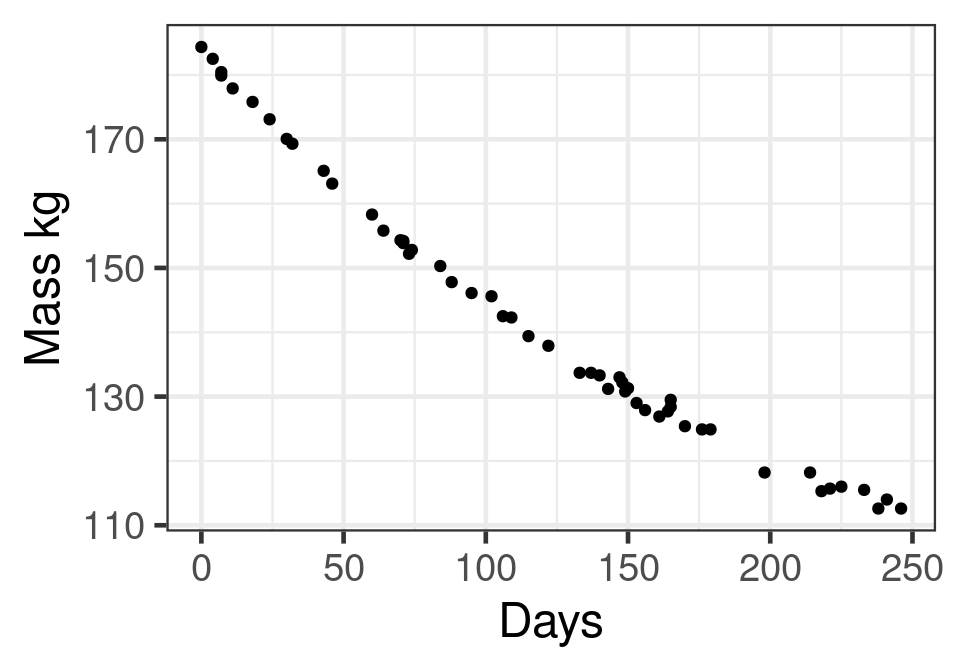
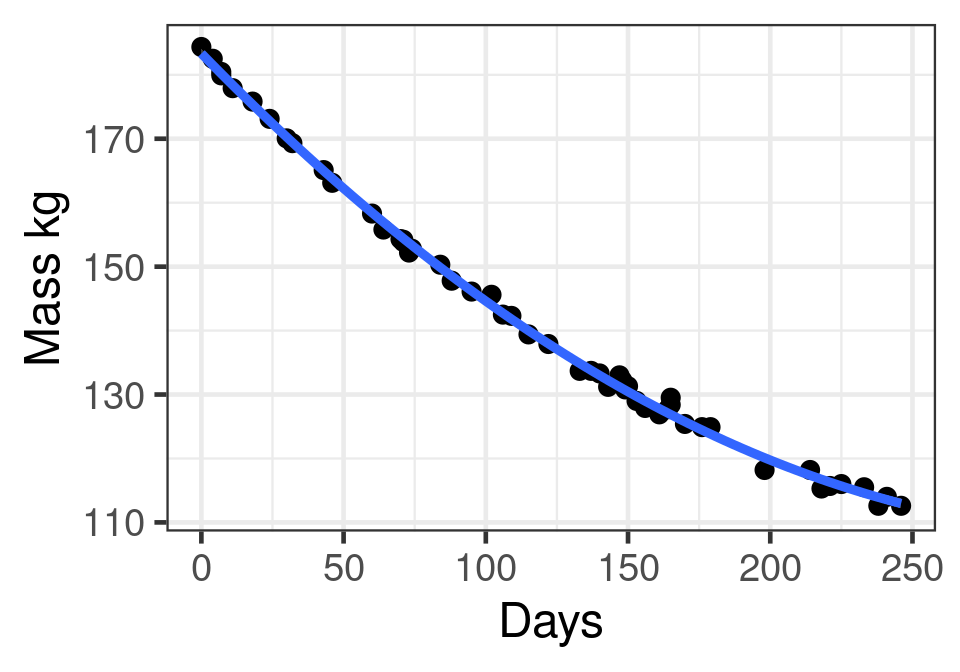
l12

diff --git a/docs/lecture_12_non-linear.html b/docs/lecture_12_non-linear.html
@@ -11,7 +11,7 @@
   <meta name="generator" content="quarto-1.8.20">
 
   <meta name="author" content="Richard J. Telford (Richard.Telford@uib.no)">
-  <meta name="dcterms.date" content="2025-08-17">
+  <meta name="dcterms.date" content="2025-11-02">
   <title>Bio302 - Biostatistikk – Non-linear analyses and summary</title>
   <meta name="apple-mobile-web-app-capable" content="yes">
   <meta name="apple-mobile-web-app-status-bar-style" content="black-translucent">
@@ -211,7 +211,7 @@ Richard J. Telford (Richard.Telford@uib.no)
     </div>
 </div>
 
-  <p class="date">17 August 2025</p>
+  <p class="date">2 November 2025</p>
 </section>
 <section id="assumptions-of-least-squares" class="slide level2">
 <h2>Assumptions of Least Squares</h2>
@@ -229,17 +229,18 @@ Richard J. Telford (Richard.Telford@uib.no)
 <h2>Non-linear least squares</h2>
 <div class="columns">
 <div class="column" style="width:50%;">
-<p>We know something about the relationship</p>
+<p>We know something about<br>
+the relationship</p>
 <div class="cell">
 <div class="cell-output-display">
 <div>
 <figure>
-<p><img data-src="lecture_12_non-linear_files/figure-revealjs/unnamed-chunk-1-1.png" width="480"></p>
+<p><img data-src="lecture_12_non-linear_files/figure-revealjs/wtloss-1.png" width="480"></p>
 </figure>
 </div>
 </div>
 </div>
-<p>Upper or lower bound (asymptote)</p>
+<p>Mass of a dieting patient - has lower bound - asymptote.</p>
 </div><div class="column" style="width:50%;">
 <p>Three options</p>
 <ul>
@@ -257,12 +258,10 @@ Richard J. Telford (Richard.Telford@uib.no)
 <li>check diagnostics</li>
 </ul>
 
-<img data-src="lecture_12_non-linear_files/figure-revealjs/fig-log-1.png" id="fig-log" width="960" class="r-stretch quarto-figure-center"><p class="caption">
-Figure&nbsp;1
-</p></section>
+<img data-src="lecture_12_non-linear_files/figure-revealjs/ffig-log-1.png" width="960" class="r-stretch"></section>
 <section id="polynomial" class="slide level2">
 <h2>Polynomial</h2>
-<p><span class="math display">\[y_i=\beta_0 + \beta_1x_i+\beta_2x^2 + \epsilon_i\]</span></p>
+<p><span class="math display">\[y_i=\beta_0 + \beta_1x_i+\beta_2x^2 + \varepsilon_i\]</span></p>
 <div class="columns">
 <div class="column" style="width:50%;">
 <ul>
@@ -275,7 +274,7 @@ Figure&nbsp;1
 <div class="cell-output-display">
 <div>
 <figure>
-<p><img data-src="lecture_12_non-linear_files/figure-revealjs/unnamed-chunk-2-1.png" width="480"></p>
+<p><img data-src="lecture_12_non-linear_files/figure-revealjs/unnamed-chunk-1-1.png" width="480"></p>
 </figure>
 </div>
 </div>
@@ -287,12 +286,12 @@ Figure&nbsp;1
 <p>The relationship has an asymptote, and a exponential decline</p>
 <div class="columns">
 <div class="column" style="width:50%;">
-<p><span class="math inline">\(y_i = \beta_0 + \beta_1\exp(\beta_2x_i) + \epsilon_i\)</span> <br> If <span class="math inline">\(\beta_2 &lt; 0\)</span></p>
-<p>x -&gt; inf</p>
+<p><span class="math inline">\(y_i = \beta_0 + \beta_1\exp(\beta_2x_i) + \varepsilon_i\)</span> <br> If <span class="math inline">\(\beta_2 &lt; 0\)</span></p>
+<p>limit <span class="math inline">\(x\to\infty\)</span></p>
 <ul>
 <li><span class="math inline">\(\beta_1\exp(\beta_2x_i) = 0\)</span></li>
 </ul>
-<p>x -&gt; 0</p>
+<p>limit <span class="math inline">\(x\to0\)</span></p>
 <ul>
 <li><span class="math inline">\(\beta_1\exp(\beta_2x_i) = β_1\)</span></li>
 </ul>
@@ -301,7 +300,7 @@ Figure&nbsp;1
 <div class="cell-output-display">
 <div>
 <figure>
-<p><img data-src="lecture_12_non-linear_files/figure-revealjs/unnamed-chunk-3-1.png" width="480"></p>
+<p><img data-src="lecture_12_non-linear_files/figure-revealjs/unnamed-chunk-2-1.png" width="480"></p>
 </figure>
 </div>
 </div>
@@ -317,13 +316,35 @@ Figure&nbsp;1
 <h2>Fitting an NLS</h2>
 <div class="cell">
 <div class="code-copy-outer-scaffold"><div class="sourceCode cell-code" id="cb1"><pre class="sourceCode numberSource r number-lines code-with-copy"><code class="sourceCode r"><span id="cb1-1"><a></a><span class="fu">library</span>(nlme)</span>
-<span id="cb1-2"><a></a><span class="co"># tibble(days = 1:200, weight = 100 + 70 * exp(-.1 * days)) |&gt; </span></span>
-<span id="cb1-3"><a></a><span class="co"># ggplot(aes(x = days, y = weight)) + geom_line()</span></span>
-<span id="cb1-4"><a></a></span>
-<span id="cb1-5"><a></a>fit.nls <span class="ot">&lt;-</span> <span class="fu">nls</span>(Weight <span class="sc">~</span> b0 <span class="sc">+</span> b1 <span class="sc">*</span> <span class="fu">exp</span>(b2 <span class="sc">*</span> Days), </span>
-<span id="cb1-6"><a></a>               <span class="at">data =</span> wtloss, </span>
-<span id="cb1-7"><a></a>               <span class="at">start =</span> <span class="fu">c</span>(<span class="at">b0 =</span> <span class="dv">100</span>, <span class="at">b1 =</span> <span class="dv">70</span>, <span class="at">b2 =</span> <span class="sc">-</span><span class="fl">0.1</span>))</span>
-<span id="cb1-8"><a></a><span class="fu">summary</span>(fit.nls)</span></code></pre></div><button title="Copy to Clipboard" class="code-copy-button"><i class="bi"></i></button></div>
+<span id="cb1-2"><a></a></span>
+<span id="cb1-3"><a></a>fit.nls <span class="ot">&lt;-</span> <span class="fu">nls</span>(Weight <span class="sc">~</span> b0 <span class="sc">+</span> b1 <span class="sc">*</span> <span class="fu">exp</span>(b2 <span class="sc">*</span> Days), <span class="at">data =</span> wtloss)</span></code></pre></div><button title="Copy to Clipboard" class="code-copy-button"><i class="bi"></i></button></div>
+<div class="cell-output cell-output-error">
+<pre><code>Error in getInitial.default(func, data, mCall = as.list(match.call(func, : no 'getInitial' method found for "function" objects</code></pre>
+</div>
+</div>
+<p>Needs stating values - initial estimates of the coefficients</p>
+</section>
+<section id="estimating-starting-values" class="slide level2">
+<h2>Estimating starting values</h2>
+<div class="columns">
+<div class="column" style="width:50%;">
+<p><span class="math inline">\(y_i = \beta_0 + \beta_1\exp(\beta_2x_i) + \varepsilon_i\)</span></p>
+<ul>
+<li><span class="math inline">\(\beta_0\)</span> = asymptote</li>
+<li><span class="math inline">\(\beta_0 + \beta_1\)</span> = intercept</li>
+<li><span class="math inline">\(\beta_2\)</span> = slope (proportional change)</li>
+</ul>
+</div><div class="column" style="width:50%;">
+<p><img data-src="lecture_12_non-linear_files/figure-revealjs/wtloss-1.png"></p>
+</div></div>
+</section>
+<section id="with-starting-values" class="slide level2">
+<h2>With starting values</h2>
+<div class="cell">
+<div class="code-copy-outer-scaffold"><div class="sourceCode cell-code" id="cb3"><pre class="sourceCode numberSource r number-lines code-with-copy"><code class="sourceCode r"><span id="cb3-1"><a></a>fit.nls <span class="ot">&lt;-</span> <span class="fu">nls</span>(Weight <span class="sc">~</span> b0 <span class="sc">+</span> b1 <span class="sc">*</span> <span class="fu">exp</span>(b2 <span class="sc">*</span> Days), </span>
+<span id="cb3-2"><a></a>               <span class="at">data =</span> wtloss, </span>
+<span id="cb3-3"><a></a>               <span class="at">start =</span> <span class="fu">c</span>(<span class="at">b0 =</span> <span class="dv">100</span>, <span class="at">b1 =</span> <span class="dv">70</span>, <span class="at">b2 =</span> <span class="sc">-</span><span class="fl">0.1</span>))</span>
+<span id="cb3-4"><a></a><span class="fu">summary</span>(fit.nls)</span></code></pre></div><button title="Copy to Clipboard" class="code-copy-button"><i class="bi"></i></button></div>
 <div class="cell-output cell-output-stdout">
 <pre><code>
 Formula: Weight ~ b0 + b1 * exp(b2 * Days)
@@ -346,46 +367,31 @@ Achieved convergence tolerance: 1.763e-07</code></pre>
 <section id="model-diagnostics" class="slide level2">
 <h2>Model diagnostics</h2>
 <div class="cell">
-<div class="code-copy-outer-scaffold"><div class="sourceCode cell-code" id="cb3"><pre class="sourceCode numberSource r number-lines code-with-copy"><code class="sourceCode r"><span id="cb3-1"><a></a><span class="fu">plot</span>(fit.nls)</span></code></pre></div><button title="Copy to Clipboard" class="code-copy-button"><i class="bi"></i></button></div>
+<div class="code-copy-outer-scaffold"><div class="sourceCode cell-code" id="cb5"><pre class="sourceCode numberSource r number-lines code-with-copy"><code class="sourceCode r"><span id="cb5-1"><a></a><span class="fu">plot</span>(fit.nls)</span></code></pre></div><button title="Copy to Clipboard" class="code-copy-button"><i class="bi"></i></button></div>
 
 </div>
-<img data-src="lecture_12_non-linear_files/figure-revealjs/fig-diagnostics-1.png" id="fig-diagnostics" width="960" class="r-stretch quarto-figure-center"><p class="caption">
-Figure&nbsp;2
-</p></section>
+<img data-src="lecture_12_non-linear_files/figure-revealjs/ffig-diagnostics-1.png" width="960" class="r-stretch"></section>
 <section id="plotting-the-model" class="slide level2">
 <h2>Plotting the model</h2>
 <div class="cell">
-<div class="code-copy-outer-scaffold"><div class="sourceCode cell-code" id="cb4"><pre class="sourceCode numberSource r number-lines code-with-copy"><code class="sourceCode r"><span id="cb4-1"><a></a>p <span class="sc">+</span>  <span class="fu">geom_line</span>(<span class="at">data =</span> broom<span class="sc">::</span><span class="fu">augment</span>(fit.nls), <span class="fu">aes</span>(<span class="at">y =</span> .fitted))</span></code></pre></div><button title="Copy to Clipboard" class="code-copy-button"><i class="bi"></i></button></div>
+<div class="code-copy-outer-scaffold"><div class="sourceCode cell-code" id="cb6"><pre class="sourceCode numberSource r number-lines code-with-copy"><code class="sourceCode r"><span id="cb6-1"><a></a>p <span class="sc">+</span>  <span class="fu">geom_line</span>(<span class="at">data =</span> broom<span class="sc">::</span><span class="fu">augment</span>(fit.nls), <span class="fu">aes</span>(<span class="at">y =</span> .fitted))</span></code></pre></div><button title="Copy to Clipboard" class="code-copy-button"><i class="bi"></i></button></div>
 
 </div>
-<img data-src="lecture_12_non-linear_files/figure-revealjs/fig-preds-1.png" id="fig-preds" width="960" class="r-stretch quarto-figure-center"><p class="caption">
-Figure&nbsp;3
-</p></section>
+<img data-src="lecture_12_non-linear_files/figure-revealjs/ffig-preds-1.png" width="960" class="r-stretch"></section>
 <section id="uncertainty-on-model-predictions" class="slide level2">
 <h2>Uncertainty on model predictions</h2>
-<p>Not calculated by the model</p>
-<p>Bootstrap - resample data and refit model many times</p>
+<p>Not calculated by the model - use bootstrap</p>
 <div class="cell">
-<div class="code-copy-outer-scaffold"><div class="sourceCode cell-code" id="cb5"><pre class="sourceCode numberSource r number-lines code-with-copy"><code class="sourceCode r"><span id="cb5-1"><a></a><span class="fu">library</span>(nlstools)</span></code></pre></div><button title="Copy to Clipboard" class="code-copy-button"><i class="bi"></i></button></div>
-<div class="cell-output cell-output-error">
-<pre><code>Error in library(nlstools): there is no package called 'nlstools'</code></pre>
+<div class="code-copy-outer-scaffold"><div class="sourceCode cell-code" id="cb7"><pre class="sourceCode numberSource r number-lines code-with-copy"><code class="sourceCode r"><span id="cb7-1"><a></a><span class="fu">library</span>(nlstools)</span>
+<span id="cb7-2"><a></a>fit.boot <span class="ot">&lt;-</span> <span class="fu">nlsBoot</span>(fit.nls)</span>
+<span id="cb7-3"><a></a>pred <span class="ot">&lt;-</span> <span class="fu">nlsBootPredict</span>(fit.boot, <span class="at">interval =</span> <span class="st">"prediction"</span>) <span class="sc">|&gt;</span> </span>
+<span id="cb7-4"><a></a>  <span class="fu">bind_cols</span>(wtloss)</span>
+<span id="cb7-5"><a></a></span>
+<span id="cb7-6"><a></a>p <span class="sc">+</span> <span class="fu">geom_ribbon</span>(<span class="fu">aes</span>(<span class="at">ymin =</span> <span class="st">`</span><span class="at">2.5%</span><span class="st">`</span>, <span class="at">ymax =</span> <span class="st">`</span><span class="at">97.5%</span><span class="st">`</span>), <span class="at">data =</span> pred, <span class="at">alpha =</span> <span class="fl">0.3</span>, <span class="at">fill =</span> <span class="st">"red"</span>) <span class="sc">+</span></span>
+<span id="cb7-7"><a></a>  <span class="fu">geom_line</span>(<span class="fu">aes</span>(<span class="at">y =</span> Median), <span class="at">data =</span> pred)</span></code></pre></div><button title="Copy to Clipboard" class="code-copy-button"><i class="bi"></i></button></div>
+
 </div>
-<div class="code-copy-outer-scaffold"><div class="sourceCode cell-code" id="cb7"><pre class="sourceCode numberSource r number-lines code-with-copy"><code class="sourceCode r"><span id="cb7-1"><a></a>fit.boot <span class="ot">&lt;-</span> <span class="fu">nlsBoot</span>(fit.nls)</span></code></pre></div><button title="Copy to Clipboard" class="code-copy-button"><i class="bi"></i></button></div>
-<div class="cell-output cell-output-error">
-<pre><code>Error in nlsBoot(fit.nls): could not find function "nlsBoot"</code></pre>
-</div>
-<div class="code-copy-outer-scaffold"><div class="sourceCode cell-code" id="cb9"><pre class="sourceCode numberSource r number-lines code-with-copy"><code class="sourceCode r"><span id="cb9-1"><a></a>pred <span class="ot">&lt;-</span> <span class="fu">nlsBootPredict</span>(fit.boot, <span class="at">interval =</span> <span class="st">"prediction"</span>) <span class="sc">|&gt;</span> </span>
-<span id="cb9-2"><a></a>  <span class="fu">bind_cols</span>(wtloss)</span></code></pre></div><button title="Copy to Clipboard" class="code-copy-button"><i class="bi"></i></button></div>
-<div class="cell-output cell-output-error">
-<pre><code>Error in nlsBootPredict(fit.boot, interval = "prediction"): could not find function "nlsBootPredict"</code></pre>
-</div>
-<div class="code-copy-outer-scaffold"><div class="sourceCode cell-code" id="cb11"><pre class="sourceCode numberSource r number-lines code-with-copy"><code class="sourceCode r"><span id="cb11-1"><a></a>p <span class="sc">+</span> <span class="fu">geom_ribbon</span>(<span class="fu">aes</span>(<span class="at">ymin =</span> <span class="st">`</span><span class="at">2.5%</span><span class="st">`</span>, <span class="at">ymax =</span> <span class="st">`</span><span class="at">97.5%</span><span class="st">`</span>), <span class="at">data =</span> pred, <span class="at">alpha =</span> <span class="fl">0.3</span>, <span class="at">fill =</span> <span class="st">"red"</span>) <span class="sc">+</span></span>
-<span id="cb11-2"><a></a>  <span class="fu">geom_line</span>(<span class="fu">aes</span>(<span class="at">y =</span> Median), <span class="at">data =</span> pred)</span></code></pre></div><button title="Copy to Clipboard" class="code-copy-button"><i class="bi"></i></button></div>
-<div class="cell-output cell-output-error">
-<pre><code>Error: object 'pred' not found</code></pre>
-</div>
-</div>
-</section>
+<img data-src="lecture_12_non-linear_files/figure-revealjs/ffig-uncert-1.png" width="960" class="r-stretch"></section>
 <section id="working-with-nls" class="slide level2">
 <h2>Working with NLS</h2>
 <ol type="1">
@@ -400,9 +406,9 @@ Figure&nbsp;3
 <ul>
 <li>Exponential decay</li>
 <li>Logistic growth</li>
-<li>Von Bertalanffy Growth Models</li>
+<li>Von Bertalanffy and Gompertz growth models</li>
 <li>Michaelis–Menten kinetics</li>
-<li>Sine waves</li>
+<li>Sine/cosine waves</li>
 </ul>
 
 <img data-src="lecture_12_non-linear_files/figure-revealjs/models-1.png" width="960" class="r-stretch"></section>
@@ -440,13 +446,13 @@ Figure&nbsp;3
 <h2>Prevalence</h2>
 <div class="cell">
 <div class="cell-output-display">
-<div id="fig-qrp" class="quarto-float quarto-figure quarto-figure-center" width="1110" height="6.5in">
+<div id="fig-qrp" class="quarto-float quarto-figure quarto-figure-center" height="6.5in" width="1110">
 <figure class="quarto-float quarto-float-fig">
 <div aria-describedby="fig-qrp-caption-0ceaefa1-69ba-4598-a22c-09a6ac19f8ca">
 <img data-src="figures/QRPpone.0200303.g001.png" id="fig-qrp" style="height:6.5in" width="1110">
 </div>
 <figcaption class="quarto-float-caption-bottom quarto-float-caption quarto-float-fig quarto-uncaptioned" id="fig-qrp-caption-0ceaefa1-69ba-4598-a22c-09a6ac19f8ca">
-Figure&nbsp;4
+Figure&nbsp;1
 </figcaption>
 </figure>
 </div>
@@ -494,14 +500,6 @@ Figure&nbsp;4
 <p>(also other types of model - survival, multivariate etc)</p>
 <p>Answers usually usually known before data collection.</p>
 </section>
-<section id="clustered-data" class="slide level2">
-<h2>Clustered data</h2>
-<p>Mixed effect models</p>
-<ul>
-<li>Normal distribution: linear mixed effect models</li>
-<li>Binomial/poisson: generalised linear mixed effect models</li>
-</ul>
-</section>
 <section id="independent-data-normal-distribution" class="slide level2">
 <h2>Independent data, normal distribution</h2>
 <p>Linear models - ordinary least squares</p>
@@ -527,17 +525,25 @@ Figure&nbsp;4
 <li>nls</li>
 </ul>
 </section>
+<section id="clustered-data" class="slide level2">
+<h2>Clustered data</h2>
+<p>Mixed effect models</p>
+<ul>
+<li>Normal distribution: linear mixed effect models</li>
+<li>Binomial/poisson: generalised linear mixed effect models</li>
+</ul>
+</section>
 <section id="all-model-are-wrong-some-are-useful" class="slide level2">
 <h2>All model are wrong; some are useful</h2>
 <div class="cell">
 <div class="cell-output-display">
-<div id="fig-many-ecologists" class="quarto-float quarto-figure quarto-figure-center" width="672" height="6.5in">
+<div id="fig-many-ecologists" class="quarto-float quarto-figure quarto-figure-center" height="6.5in" width="672">
 <figure class="quarto-float quarto-float-fig">
 <div aria-describedby="fig-many-ecologists-caption-0ceaefa1-69ba-4598-a22c-09a6ac19f8ca">
 <img data-src="figures/fig-forest-plots-Zr-1.png" id="fig-many-ecologists" style="height:6.5in" width="672">
 </div>
 <figcaption class="quarto-float-caption-bottom quarto-float-caption quarto-float-fig quarto-uncaptioned" id="fig-many-ecologists-caption-0ceaefa1-69ba-4598-a22c-09a6ac19f8ca">
-Figure&nbsp;5
+Figure&nbsp;2
 </figcaption>
 </figure>
 </div>
@@ -550,9 +556,9 @@ Figure&nbsp;5
 <section id="interpreting-model-output" class="slide level2">
 <h2>Interpreting model output</h2>
 <div class="cell">
-<div class="code-copy-outer-scaffold"><div class="sourceCode cell-code" id="cb13"><pre class="sourceCode numberSource r number-lines code-with-copy"><code class="sourceCode r"><span id="cb13-1"><a></a><span class="fu">data</span>(penguins, <span class="at">package =</span> <span class="st">"palmerpenguins"</span>)</span>
-<span id="cb13-2"><a></a>mod <span class="ot">&lt;-</span> <span class="fu">lm</span>(bill_length_mm <span class="sc">~</span> sex <span class="sc">*</span> species, <span class="at">data =</span> penguins)</span>
-<span id="cb13-3"><a></a><span class="fu">summary</span>(mod)</span></code></pre></div><button title="Copy to Clipboard" class="code-copy-button"><i class="bi"></i></button></div>
+<div class="code-copy-outer-scaffold"><div class="sourceCode cell-code" id="cb8"><pre class="sourceCode numberSource r number-lines code-with-copy"><code class="sourceCode r"><span id="cb8-1"><a></a><span class="fu">data</span>(penguins, <span class="at">package =</span> <span class="st">"palmerpenguins"</span>)</span>
+<span id="cb8-2"><a></a>mod <span class="ot">&lt;-</span> <span class="fu">lm</span>(bill_length_mm <span class="sc">~</span> sex <span class="sc">*</span> species, <span class="at">data =</span> penguins)</span>
+<span id="cb8-3"><a></a><span class="fu">summary</span>(mod)</span></code></pre></div><button title="Copy to Clipboard" class="code-copy-button"><i class="bi"></i></button></div>
 <div class="cell-output cell-output-stdout">
 <pre><code>
 Call:
@@ -584,9 +590,10 @@ F-statistic:   305 on 5 and 327 DF,  p-value: &lt; 2.2e-16</code></pre>
 <h2>More statistics at BIO</h2>
 <h3 id="bio302-spring-semester">Bio302 Spring semester</h3>
 <ul>
-<li>more regression methods</li>
+<li>Open and reproducible science</li>
 <li>more R</li>
-<li>GitHub &amp; open science</li>
+<li><code>targets</code> package for reproducible analysis pipelines</li>
+<li>Git and GitHub</li>
 </ul>
 <h3 id="bio303">Bio303</h3>
 <ul>
